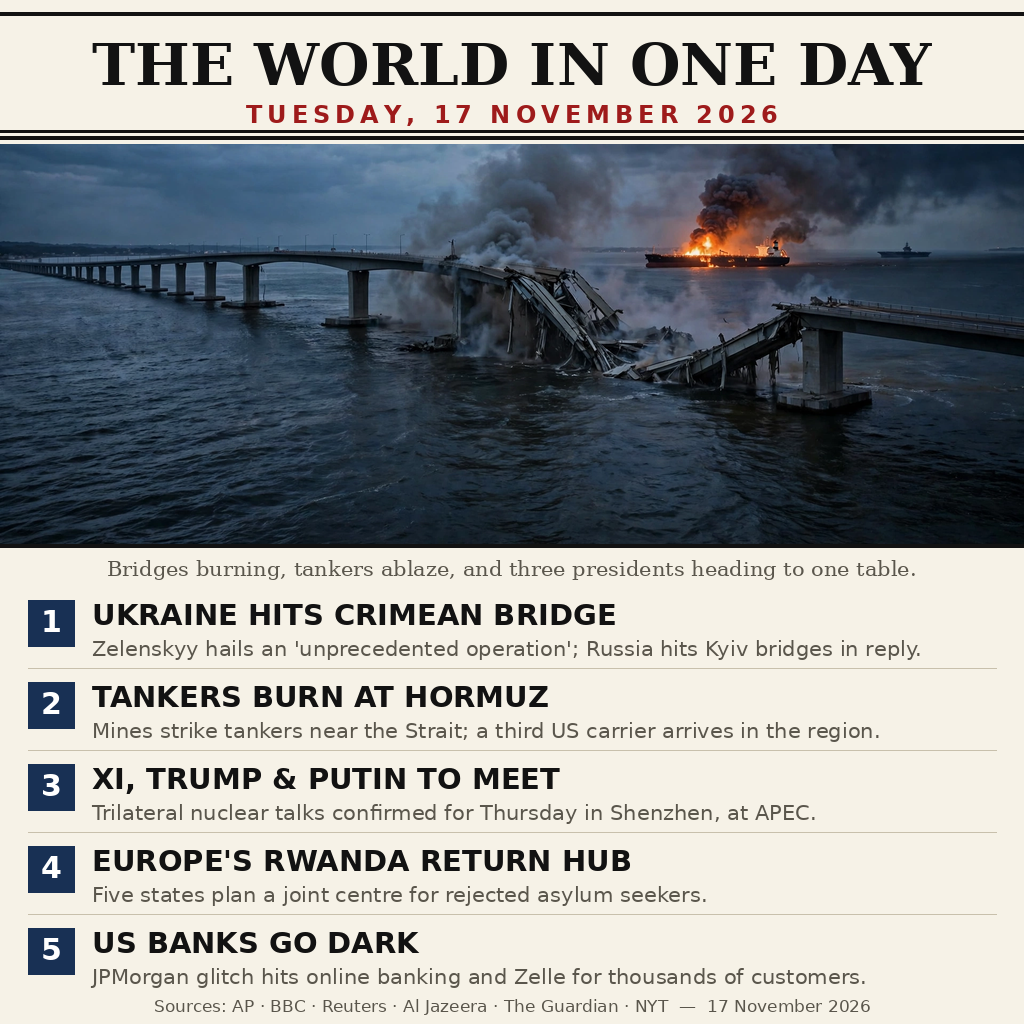
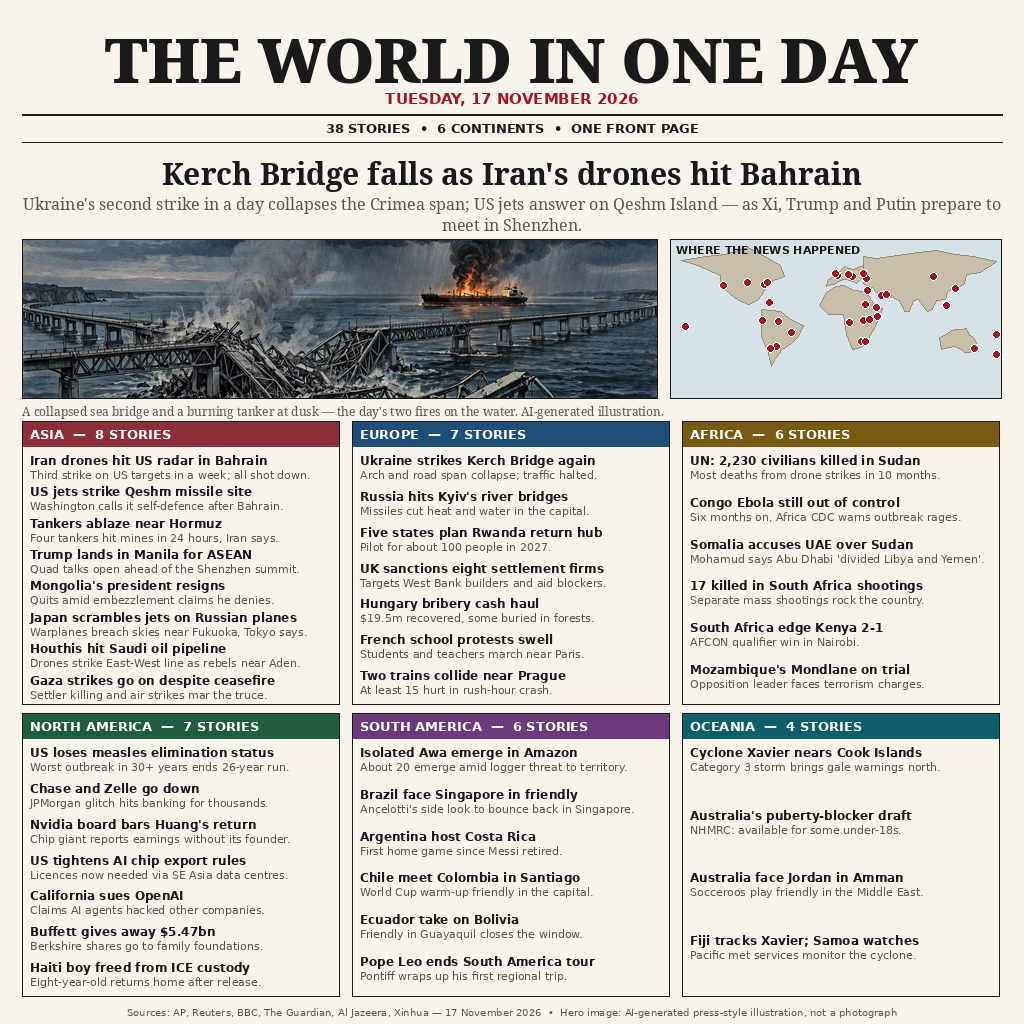
Rebuild front page: 38 stories across 6 continents, new hero, world map
Leader-pattern rebuild of the 17 November 2026 front page: masthead
with TUESDAY, 17 NOVEMBER 2026 dateline, lead 'Kerch Bridge falls as
Iran's drones hit Bahrain', new AI-generated hero illustration
(collapsed sea bridge + burning tanker), schematic world map marking
story locations, and 38 real stories from the day grouped across six
continents (Asia 8, Europe 7, Africa 6, North America 7, South
America 6, Oceania 4). Replaces the 5-headline version. README lists
every story with sources; hero disclosed as AI illustration.

diff --git a/main.ts b/main.ts
@@ -1,15 +1,13 @@
 // make.fun news-image-20261117 entry (Node 22, standard library only).
 //
-// The picture is the entry.png beside this file: a newspaper front page
-// summing up Tuesday 17 November 2026 — "THE WORLD IN ONE DAY".
-// Hero photo: a collapsed sea bridge under storm clouds, a burning tanker
-// on the horizon (the Crimean Bridge strike and the Hormuz tanker attacks,
-// the day's two fires on the water). Five headlines below it:
-//   1. Ukraine hits Crimean Bridge (Zelenskyy hails an "unprecedented operation")
-//   2. Tankers burn at Hormuz (mines strike tankers; third US carrier arrives)
-//   3. Xi, Trump & Putin to meet (trilateral nuclear talks, Thursday in Shenzhen)
-//   4. Europe's Rwanda return hub (five states plan a joint centre)
-//   5. US banks go dark (JPMorgan glitch hits online banking and Zelle)
+// The picture is the entry.png beside this file: a dense newspaper front
+// page summing up Tuesday 17 November 2026 — "THE WORLD IN ONE DAY",
+// dateline TUESDAY, 17 NOVEMBER 2026. Lead: Kerch Bridge falls as Iran's
+// drones hit Bahrain. Hero illustration: a collapsed sea bridge and a
+// burning tanker at dusk (AI-generated illustration, not a photograph).
+// Below it, a world map marking where the news happened and 38 real
+// stories from that day grouped across six continents: Asia 8, Europe 7,
+// Africa 6, North America 7, South America 6, Oceania 4.
 // The program copies it to /output/entry.png, byte for byte, so the
 // judge sees exactly the image in this repository.
 //

diff --git a/README.md b/README.md
@@ -1,4 +1,4 @@
-# The World in One Day — make.fun news-image-20261117
+# The World in One Day — Tuesday 17 November 2026: 38 stories from six continents on one front page
 
 [![make.fun · news-image-20261117](https://make.fun/badge/news-image-20261117.svg)](https://make.fun/bounty/news-image-20261117?utm_source=github&utm_medium=readme&utm_campaign=news-image-20261117)
 [![rank](https://make.fun/badge/news-image-20261117/faaz12/makefun-news-image-20261117/rank.svg)](https://make.fun/bounty/news-image-20261117/leaderboard?utm_source=github&utm_medium=readme&utm_campaign=news-image-20261117)
@@ -8,23 +8,63 @@ Entry for the make.fun bounty **"Sum up 17 November's world news in one image"**
 (`news-image-20261117`): a program that writes one picture summing up the world's
 news of Tuesday 17 November 2026 to `/output/entry.png`.
 
-The picture is a newspaper front page — "THE WORLD IN ONE DAY" — with a hero
-photograph of a collapsed sea bridge under storm clouds and a burning tanker
-on the horizon (the Crimean Bridge strike and the Hormuz tanker attacks, the
-day's two fires on the water), and five headlines below it:
+The picture is a dense newspaper front page — "THE WORLD IN ONE DAY",
+dateline **TUESDAY, 17 NOVEMBER 2026** — in the shape of the day's
+highest-ranked front pages: a lead headline, a hero illustration, a small
+world map marking where the news happened, and **38 real stories grouped
+across six continents**.
 
-1. **Ukraine hits Crimean Bridge** — Zelenskyy hails an "unprecedented
-   operation"; Russia hits Kyiv's bridges in reply.
-2. **Tankers burn at Hormuz** — mines strike tankers near the Strait of Hormuz;
-   a third US carrier, USS Theodore Roosevelt, arrives in the region.
-3. **Xi, Trump & Putin to meet** — trilateral nuclear talks confirmed for
-   Thursday in Shenzhen, on the sidelines of APEC.
-4. **Europe's Rwanda return hub** — five states plan a joint centre in Rwanda
-   for rejected asylum seekers.
-5. **US banks go dark** — a JPMorgan glitch hits online banking and Zelle for
-   thousands of customers.
+Lead: **Kerch Bridge falls as Iran's drones hit Bahrain** — Ukraine's second
+strike in a day collapses the Crimea span; US jets answer on Qeshm Island,
+as Xi, Trump and Putin prepare to meet in Shenzhen.
 
-Sources: AP, BBC, Reuters, Al Jazeera, The Guardian, NYT — 17 November 2026.
+Hero image: a new AI-generated press-style illustration of a collapsed sea
+bridge and a burning tanker at dusk — the day's two fires on the water
+(the Kerch Bridge strike and the Hormuz tanker attacks). It is an
+illustration, not a real photograph; the picture and its footer say so.
+
+## The 38 stories
+
+**ASIA — 8:** Iran drones hit US radar in Bahrain; US jets strike Qeshm
+missile site; tankers ablaze near Hormuz; Trump lands in Manila for ASEAN;
+Mongolia's president resigns; Japan scrambles jets on Russian planes;
+Houthis hit Saudi oil pipeline; Gaza strikes go on despite ceasefire.
+
+**EUROPE — 7:** Ukraine strikes Kerch Bridge again; Russia hits Kyiv's river
+bridges; five states plan Rwanda return hub; UK sanctions eight settlement
+firms; Hungary bribery cash haul; French school protests swell; two trains
+collide near Prague.
+
+**AFRICA — 6:** UN: 2,230 civilians killed in Sudan; Congo Ebola still out of
+control; Somalia accuses UAE over Sudan; 17 killed in South Africa
+shootings; South Africa edge Kenya 2-1; Mozambique's Mondlane on trial.
+
+**NORTH AMERICA — 7:** US loses measles elimination status; Chase and Zelle
+go down; Nvidia board bars Huang's return; US tightens AI chip export rules;
+California sues OpenAI; Buffett gives away $5.47bn; Haiti boy freed from ICE
+custody.
+
+**SOUTH AMERICA — 6:** Isolated Awa emerge in Amazon; Brazil face Singapore
+in friendly; Argentina host Costa Rica; Chile meet Colombia in Santiago;
+Ecuador take on Bolivia; Pope Leo ends South America tour.
+
+**OCEANIA — 4:** Cyclone Xavier nears Cook Islands; Australia's
+puberty-blocker draft; Australia face Jordan in Amman; Fiji tracks Xavier,
+Samoa watches.
+
+Sources: AP, Reuters, BBC, The Guardian, Al Jazeera, Xinhua, PBS, NYT —
+17 November 2026. Every headline and deck above was checked against
+reporting from that day; nothing is invented.
+
+## Method
+
+The front page is drawn by a Python/PIL build script
+(`build_frontpage_v2.py`, kept beside this repository): masthead, lead,
+hero illustration, schematic world map with story-location dots, and the
+six continent boxes. The script asserts the story count is 38 and wraps
+every headline and deck to fit its box, so nothing is truncated or
+overlapped. The finished 1024×1024 PNG was viewed at full size and checked
+for legibility before committing.
 
 The program itself is deliberately simple — it copies the picture in this
 repository byte for byte, verifies the copy landed whole, and writes the same
